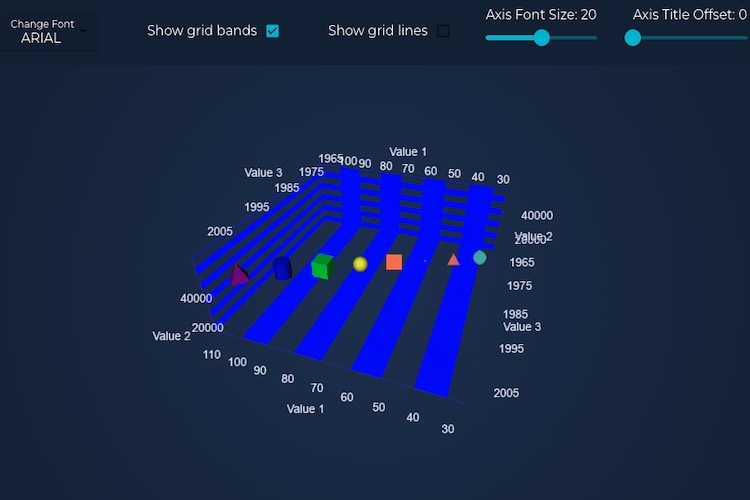
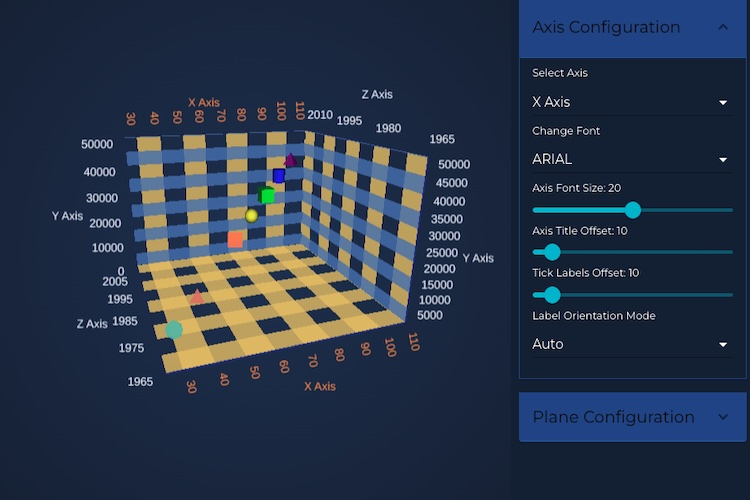
chore(examples): 3d example exampleInfo update

diff --git a/Examples/src/components/Examples/Charts3D/Basic3DChartTypes/StylingDemoChart/exampleInfo.tsx b/Examples/src/components/Examples/Charts3D/Basic3DChartTypes/StylingDemoChart/exampleInfo.tsx
@@ -8,49 +8,49 @@ const metaData: IExampleMetadata =
         id: "chart3D_basic3DChartTypes_StylingDemoChart",
         imagePath: "javascript-3d-styling-demo.jpg",
         description:
-            "Our team demonstrates how to create a **JavaScript 3D Point Line Chart** using SciChart.js, capable of creating detailed 3D JavaScript Charts.",
+            "Our team demonstrates how to create a **JavaScript 3D Styling Demo Chart** using SciChart.js, showcasing advanced 3D chart styling capabilities including custom fonts, axis styling, and multiple point marker types.",
         tips: [],
         frameworks: {
             javascript: {
                 subtitle:
-                    "Our team demonstrates how to create a **JavaScript 3D Point Line Chart** using SciChart.js, capable of creating detailed 3D JavaScript Charts.",
-                title: "JavaScript Point Line 3D Chart",
-                pageTitle: "JavaScript 3D Point Line Chart | View 3D JavaScript Charts",
+                    "Our team demonstrates how to create a **JavaScript 3D Styling Demo Chart** using SciChart.js, showcasing advanced 3D chart styling capabilities.",
+                title: "JavaScript 3D Styling Demo Chart",
+                pageTitle: "JavaScript 3D Styling Demo Chart | Advanced 3D Chart Styling",
                 metaDescription:
-                    "Create detailed JavaScript 3D Line Chart using SciChart's 5-star rated JavaScript chart library. Supports large datasets. Get your free demo now.",
+                    "Create advanced JavaScript 3D Styling Demo using SciChart's 5-star rated JavaScript chart library. Explore custom fonts, axis styling, and multiple point markers. Get your free demo now.",
                 markdownContent:
-                    "## Point Line 3D Chart with JavaScript\n\n### Overview\nThis example demonstrates a sophisticated 3D point-line chart built with SciChart.js using JavaScript. It visualizes spectral data generated via a Fourier Transform (using the Radix2FFT algorithm) and displays the frequency domain in a dynamic 3D scene. The example illustrates how to integrate complex data processing and 3D rendering without relying on frameworks such as Angular or React.\n\n### Technical Implementation\nThe core of the implementation is the creation of a SciChart 3D surface using the [Creating your first SciChartSurface3D](https://www.scichart.com/documentation/js/current/Creating%20your%20first%20SciChartSurface3D.html) guide. The example sets up a custom 3D world with defined dimensions and configures the camera using the CameraController. Interaction is enhanced by modifiers such as the MouseWheelZoomModifier3D, OrbitModifier3D (see [OrbitModifier3D](https://www.scichart.com/documentation/js/current/OrbitModifier3D.html) for details), and ResetCamera3DModifier which enable intuitive zooming, panning, and orbiting around the data. Additionally, three 3D NumericAxes are configured using the [NumericAxis3D](https://www.scichart.com/documentation/js/current/typedoc/classes/numericaxis3d.html) API. Data points are enriched with custom metadata that maps spectral intensities to color gradients. This metadata formatting leverages a gradient-stop approach and a utility function to convert CSS color strings into UInt ARGB values, ensuring accurate per-point styling. The renderable series is then created using the [Point Line 3D Chart Type](https://www.scichart.com/documentation/js/current/ThePointLine3DChartType.html) for a smooth visual output.\n\n### Features and Capabilities\nKey features include the generation of dynamic spectral data, efficient FFT-based signal processing, and advanced 3D rendering. The example further demonstrates how to customize chart appearance through adjustable stroke thickness, opacity, and per-point metadata coloring. A separate heatmap legend, created via the [HeatmapLegend](https://www.scichart.com/documentation/js/current/typedoc/classes/heatmaplegend.html) API, provides a visual mapping of data values to color scales, enhancing interpretability.\n\n### Integration and Best Practices\nThis implementation serves as a template for integrating high-performance 3D charts into applications using only JavaScript. Best practices demonstrated here include organizing the code into clear asynchronous initialization steps, optimizing performance by limiting the number of rendered points, and applying efficient color parsing routines. Developers can use these techniques along with detailed SciChart.js documentation to customize and extend the chart’s functionality as needed.",
+                    "## 3D Styling Demo Chart with JavaScript\n\n### Overview\nThis example demonstrates advanced 3D chart styling capabilities built with SciChart.js using JavaScript. It showcases a comprehensive styling demo featuring multiple point marker types, custom font integration, axis styling controls, and interactive styling features. The example illustrates how to create visually rich 3D charts with extensive customization options without relying on frameworks such as Angular or React.\n\n### Technical Implementation\nThe core of the implementation is the creation of a SciChart 3D surface using the [Creating your first SciChartSurface3D](https://www.scichart.com/documentation/js/current/Creating%20your%20first%20SciChartSurface3D.html) guide. The example sets up a custom 3D world with defined dimensions and configures the camera for optimal viewing. Interaction is enhanced by modifiers such as the MouseWheelZoomModifier3D, OrbitModifier3D (see [OrbitModifier3D](https://www.scichart.com/documentation/js/current/OrbitModifier3D.html) for details), and ResetCamera3DModifier which enable intuitive zooming, panning, and orbiting around the data. The chart features eight different [3D Point Markers](https://www.scichart.com/documentation/js/current/3DPointMarkers.html) including EllipsePointMarker3D, TrianglePointMarker3D, SpherePointMarker3D, CubePointMarker3D, and more, each with unique styling and metadata. Custom Google Fonts are registered and applied to axis labels and titles, demonstrating advanced typography integration.\n\n### Features and Capabilities\nKey features include multiple point marker types with individual styling, dynamic font registration from Google Fonts, comprehensive axis styling controls, and interactive plane visibility management. The example demonstrates how to customize axis planes with different visibility modes, label drawing modes, and title positioning. Advanced styling options include grid bands, major grid lines, label orientation modes, and dynamic color theming. Each data point is rendered with unique metadata including custom colors and scaling factors.\n\n### Integration and Best Practices\nThis implementation serves as a comprehensive template for integrating advanced 3D chart styling into applications using only JavaScript. Best practices demonstrated here include efficient font loading with Promise.all, modular styling control functions, and organized axis configuration. The example shows how to create reusable styling functions for different chart elements and how to manage complex 3D chart interactions. Developers can use these techniques along with detailed SciChart.js documentation to create highly customized and visually appealing 3D charts.",
             },
             react: {
                 subtitle:
-                    "Our team demonstrates how to create a **React 3D Styling Demo** using SciChart.js.",
-                title: "3D Styling Demo",
-                pageTitle: "React 3D Styling Demo | View 3D Styling Demo",
+                    "Our team demonstrates how to create a **React 3D Styling Demo** using SciChart.js, showcasing advanced 3D chart styling capabilities.",
+                title: "React 3D Styling Demo",
+                pageTitle: "React 3D Styling Demo | Advanced 3D Chart Styling",
                 metaDescription:
-                    "Create detailed React 3D Line Chart using SciChart's 5-star rated JavaScript chart library. Supports large datasets. Get your free demo now.",
+                    "Create advanced React 3D Styling Demo using SciChart's 5-star rated JavaScript chart library. Explore custom fonts, axis styling, and multiple point markers. Get your free demo now.",
                 markdownContent:
-                    "## React Point Line 3D Chart\n\n### Overview\nThis example demonstrates the implementation of a 3D Point Line Chart in a React application using SciChart.js. The chart is designed to visualize spectral data generated via a Fourier transform, with dynamic color scaling achieved through metadata formatting. The example showcases the use of multiple `<SciChartReact/>` components to layer both the primary 3D chart and an accompanying heatmap legend.\n\n### Technical Implementation\nThe 3D chart is initialized using the `<SciChartReact/>` component, which receives an initialization function (drawExample) that sets up the 3D surface, axes, and chart modifiers such as 3D camera controls (e.g., [MouseWheelZoomModifier3D](https://www.scichart.com/documentation/js/current/MouseWheelZoomModifier3D.html) and [OrbitModifier3D](https://www.scichart.com/documentation/js/current/OrbitModifier3D.html)). Data for the chart is dynamically generated; spectral data is created and processed using a Fourier transform, and a metadata formatting function dynamically assigns color and scaling to each data point. This configuration leverages a WebAssembly context (wasmContext) for optimized performance—a technique further explained in the [SciChart.js User Manual](https://www.scichart.com/documentation/js/current/SciChart_JS_User_Manual.html).\n\n### Features and Capabilities\nThe example implements advanced charting features including real-time spectral data computation and efficient rendering of multiple 3D series. The dynamic metadata formatting enables smooth color gradients based on data values, while the customizable camera controls provide an intuitive zoom and pan experience. Additionally, the integration of a separately rendered heatmap legend enhances the visual storytelling of the chart by providing context to the power (dB) measurements.\n\n### Integration and Best Practices\nThe React integration leverages the `<SciChartReact/>` component to seamlessly incorporate high-performance WebGL charts into the React ecosystem. The layout management is handled by a custom ChartGroupLoader which organizes the primary chart and legend components, following [best practices for React integration with SciChart.js](https://www.scichart.com/blog/react-charts-with-scichart-js/). Developers are encouraged to explore performance optimization techniques, such as minimizing re-rendering and reusing the WebAssembly context, to maintain smooth interactivity even with large datasets. Furthermore, the example demonstrates best practices in layering multiple `<SciChartReact/>` components to create complex chart layouts, as seen in this [React chart layering approach](https://www.scichart.com/demo/react/chart-legends).",
+                    "## React 3D Styling Demo Chart\n\n### Overview\nThis example demonstrates the implementation of an advanced 3D Styling Demo in a React application using SciChart.js. The chart showcases comprehensive styling capabilities including multiple point marker types, custom font integration, axis styling controls, and interactive styling features. The example demonstrates how to create visually rich 3D charts with extensive customization options using the `<SciChartReact/>` component.\n\n### Technical Implementation\nThe 3D chart is initialized using the `<SciChartReact/>` component, which receives an initialization function (drawExample) that sets up the 3D surface, axes, and chart modifiers such as 3D camera controls (e.g., [MouseWheelZoomModifier3D](https://www.scichart.com/documentation/js/current/MouseWheelZoomModifier3D.html) and [OrbitModifier3D](https://www.scichart.com/documentation/js/current/OrbitModifier3D.html)). The chart features eight different [3D Point Markers](https://www.scichart.com/documentation/js/current/3DPointMarkers.html) including EllipsePointMarker3D, TrianglePointMarker3D, SpherePointMarker3D, CubePointMarker3D, and more. Custom Google Fonts are registered asynchronously and applied to axis labels and titles, demonstrating advanced typography integration. This configuration leverages a WebAssembly context (wasmContext) for optimized performance—a technique further explained in the [SciChart.js User Manual](https://www.scichart.com/documentation/js/current/SciChart_JS_User_Manual.html).\n\n### Features and Capabilities\nThe example implements advanced styling features including multiple point marker types with individual styling, dynamic font registration from Google Fonts, comprehensive axis styling controls, and interactive plane visibility management. The styling controls include functions for axis plane visibility, label drawing modes, title positioning, grid bands, major grid lines, and label orientation modes. Each data point is rendered with unique metadata including custom colors and scaling factors, creating a visually diverse and informative 3D scatter plot.\n\n### Integration and Best Practices\nThe React integration leverages the `<SciChartReact/>` component to seamlessly incorporate high-performance WebGL charts with advanced styling capabilities into the React ecosystem. The implementation demonstrates best practices for font loading with Promise.all, modular styling control functions, and organized axis configuration. Developers are encouraged to explore the comprehensive styling API and reuse the modular control functions for creating highly customized 3D charts. The example serves as a template for building visually rich 3D applications with extensive styling options in React.",
             },
             angular: {
                 subtitle:
-                    "Our team demonstrates how to create a **Angular 3D Point Line Chart** using SciChart.js, capable of creating detailed 3D JavaScript Charts.",
-                title: "Angular Point Line 3D Chart",
-                pageTitle: "Angular 3D Point Line Chart | View 3D JavaScript Charts",
+                    "Our team demonstrates how to create a **Angular 3D Styling Demo Chart** using SciChart.js, showcasing advanced 3D chart styling capabilities.",
+                title: "Angular 3D Styling Demo Chart",
+                pageTitle: "Angular 3D Styling Demo Chart | Advanced 3D Chart Styling",
                 metaDescription:
-                    "Create detailed Angular 3D Line Chart using SciChart's 5-star rated JavaScript chart library. Supports large datasets. Get your free demo now.",
+                    "Create advanced Angular 3D Styling Demo using SciChart's 5-star rated JavaScript chart library. Explore custom fonts, axis styling, and multiple point markers. Get your free demo now.",
                 markdownContent:
-                    "## Angular 3D Point Line Chart Example\n\n### Overview\nThis example demonstrates how to integrate SciChart.js into an Angular standalone application to render an advanced 3D point-line chart. It visualizes spectral data transformed through a Fourier algorithm and applies dynamic metadata for color and scaling. The implementation leverages the [scichart-angular](https://www.npmjs.com/package/scichart-angular) package to initialize and render chart components using Angular’s standalone component architecture.\n\n### Technical Implementation\nThe chart is configured using the initChart callbacks provided by the Angular components. In the drawExample function, a SciChart3DSurface is created with a specified world dimension and camera settings which are enhanced by adding 3D modifiers such as [OrbitModifier3D](https://www.scichart.com/documentation/js/current/OrbitModifier3D.html) and [MouseWheelZoomModifier3D](https://www.scichart.com/documentation/js/current/Creating%20your%20first%20SciChartSurface3D.html). Spectral data is generated dynamically and processed using a Fourier transform, while a helper function formats the metadata so that each point is rendered with the correct color and scale as outlined in the [Point Line 3D Chart Documentation](https://www.scichart.com/documentation/js/current/ThePointLine3DChartType.html). The use of a WebAssembly context (wasmContext) ensures that the rendering is optimized for high performance, following guidelines available in [Memory Best Practices](https://www.scichart.com/documentation/js/current/MemoryBestPractices.html).\n\n### Features and Capabilities\nThe example provides advanced features including real-time spectral data visualization and sophisticated 3D navigation. It supports multiple interactive camera controls and the ability to reset the camera view using advanced modifiers such as [ResetCamera3DModifier](https://www.scichart.com/documentation/js/current/typedoc/classes/resetcamera3dmodifier.html). A separate heatmap legend is also rendered alongside the main chart to provide additional context, showcasing the capability for layered chart designs and dynamic metadata styling.\n\n### Integration and Best Practices\nDevelopers can adopt this example as a blueprint for integrating SciChart.js in Angular environments. The utilization of Angular’s standalone components, along with the initChart callback mechanism, allows for clean and modular chart initialization. By following the practices detailed in [Getting Started with SciChart JS](https://www.scichart.com/getting-started/scichart-javascript/), and effectively using 3D camera controls, developers can achieve efficient rendering and optimal user experience. This example reinforces the importance of reusing the WebAssembly context for performance optimizations and demonstrates best practices in building interactive, high-performance 3D charts in Angular.",
+                    "## Angular 3D Styling Demo Chart Example\n\n### Overview\nThis example demonstrates how to integrate SciChart.js into an Angular standalone application to render an advanced 3D Styling Demo chart. It showcases comprehensive styling capabilities including multiple point marker types, custom font integration, axis styling controls, and interactive styling features. The implementation leverages the [scichart-angular](https://www.npmjs.com/package/scichart-angular) package to initialize and render chart components using Angular's standalone component architecture.\n\n### Technical Implementation\nThe chart is configured using the initChart callbacks provided by the Angular components. In the drawExample function, a SciChart3DSurface is created with a specified world dimension and camera settings which are enhanced by adding 3D modifiers such as [OrbitModifier3D](https://www.scichart.com/documentation/js/current/OrbitModifier3D.html) and [MouseWheelZoomModifier3D](https://www.scichart.com/documentation/js/current/Creating%20your%20first%20SciChartSurface3D.html). The chart features eight different [3D Point Markers](https://www.scichart.com/documentation/js/current/3DPointMarkers.html) including EllipsePointMarker3D, TrianglePointMarker3D, SpherePointMarker3D, CubePointMarker3D, and more. Custom Google Fonts are registered asynchronously and applied to axis labels and titles. The use of a WebAssembly context (wasmContext) ensures that the rendering is optimized for high performance, following guidelines available in [Memory Best Practices](https://www.scichart.com/documentation/js/current/MemoryBestPractices.html).\n\n### Features and Capabilities\nThe example provides advanced styling features including multiple point marker types with individual styling, dynamic font registration from Google Fonts, comprehensive axis styling controls, and interactive plane visibility management. It supports multiple interactive camera controls and the ability to reset the camera view using advanced modifiers such as [ResetCamera3DModifier](https://www.scichart.com/documentation/js/current/typedoc/classes/resetcamera3dmodifier.html). The styling controls include functions for axis plane visibility, label drawing modes, title positioning, grid bands, major grid lines, and label orientation modes.\n\n### Integration and Best Practices\nDevelopers can adopt this example as a blueprint for integrating advanced 3D chart styling in Angular environments. The utilization of Angular's standalone components, along with the initChart callback mechanism, allows for clean and modular chart initialization. By following the practices detailed in [Getting Started with SciChart JS](https://www.scichart.com/getting-started/scichart-javascript/), and effectively using comprehensive styling controls, developers can achieve visually rich and highly customized 3D charts. This example reinforces the importance of reusing the WebAssembly context for performance optimizations and demonstrates best practices in building interactive, high-performance 3D styling demos in Angular.",
             },
         },
         documentationLinks: [
             {
-                href: "https://www.scichart.com/documentation/js/current/ThePointLine3DChartType.html",
-                title: "SciChart.js 3D Point Line Chart Documentation",
-                linkTitle: "JavaScript 3D Point Line Chart Documentation",
+                href: "https://www.scichart.com/documentation/js/v4/3d-charts/scichart-3d-basics/scichart-3d-basics-overview/",
+                title: "SciChart.js 3D Surface Creation Documentation",
+                linkTitle: "JavaScript 3D Surface Creation Documentation",
             },
         ],
         path: "3d-styling-demo-chart",
-        metaKeywords: "3d, bubble, chart, javascript, webgl, canvas",
+        metaKeywords: "3d, styling, demo, scatter, chart, javascript, webgl, canvas, fonts, markers",
         onWebsite: false,
         filepath: "Charts3D/Basic3DChartTypes/StylingDemoChart",
         thumbnailImage: "javascript-3d-styling-demo.jpg",

diff --git a/Examples/src/components/Examples/Charts3D/Basic3DChartTypes/StylingDemoChart/drawExample.ts b/Examples/src/components/Examples/Charts3D/Basic3DChartTypes/StylingDemoChart/drawExample.ts
@@ -125,10 +125,10 @@ export const drawExample = async (rootElement: string | HTMLDivElement) => {
     sciChart3DSurface.xAxis.axisBandsFill = appTheme.MutedOrange + "cc";
 
     sciChart3DSurface.yAxis.drawMajorBands = true;
-    sciChart3DSurface.yAxis.axisBandsFill = appTheme.MutedOrange + "cc";
+    sciChart3DSurface.yAxis.axisBandsFill = appTheme.MutedBlue + "cc";
 
     sciChart3DSurface.zAxis.drawMajorBands = true;
-    sciChart3DSurface.zAxis.axisBandsFill = appTheme.MutedBlue + "cc";
+    sciChart3DSurface.zAxis.axisBandsFill = appTheme.MutedOrange + "cc";
 
     const setPlaneBackground = (plane: string) => {
         if (plane === "xy") {
@@ -454,9 +454,15 @@ export const drawExample = async (rootElement: string | HTMLDivElement) => {
     sciChart3DSurface.zAxis.majorGridLineStyle.color = "red";
 
     const enableMajorGridLines = (enable: boolean, axis?: "x" | "y" | "z") => {
-        if (axis === "x" || !axis) sciChart3DSurface.xAxis.drawMajorGridLines = enable;
-        if (axis === "y" || !axis) sciChart3DSurface.yAxis.drawMajorGridLines = enable;
-        if (axis === "z" || !axis) sciChart3DSurface.zAxis.drawMajorGridLines = enable;
+        if (axis === "x" || !axis) {
+            sciChart3DSurface.xAxis.drawMajorGridLines = enable;
+        }
+        if (axis === "y" || !axis) {
+            sciChart3DSurface.yAxis.drawMajorGridLines = enable;
+        }
+        if (axis === "z" || !axis) {
+            sciChart3DSurface.zAxis.drawMajorGridLines = enable;
+        }
     };
 
     const setLabelOrientationMode = (mode: E3DLabelOrientationMode, axis?: "x" | "y" | "z") => {

diff --git a/Examples/src/components/Examples/Charts3D/Basic3DChartTypes/StylingDemoChart/index.tsx b/Examples/src/components/Examples/Charts3D/Basic3DChartTypes/StylingDemoChart/index.tsx
@@ -68,7 +68,7 @@ export default function StylingDemoChart() {
     );
     const [isDialogOpen, setIsDialogOpen] = React.useState(false);
 
-    const [selectedPlane, setSelectedPlane] = useState<"xy" | "zy" | "zx">("xy");
+    const [selectedPlane, setSelectedPlane] = useState<"xy" | "zy" | "zx">("zx");
     const [visabilityMode, setVisabilityMode] = useState("auto");
     const [planeDrawTitlesMode, setPlaneDrawTitlesMode] = useState("both");
     const [planeDrawLabelsMode, setPlaneDrawLabelsMode] = useState("both");
@@ -154,6 +154,8 @@ export default function StylingDemoChart() {
 
         setSelectedAxis(selectedAxis);
         controlsRef.current.updateAxisTitleColor(selectedAxis);
+
+        // controlsRef.current.enableMajorGridLines(true, selectedAxis)
     };
 
     const handleLabelOrientationModeChange = (e: { target: { value: string } }) => {
